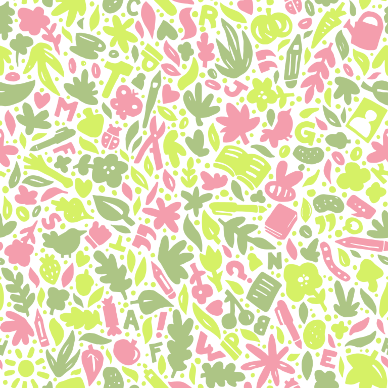
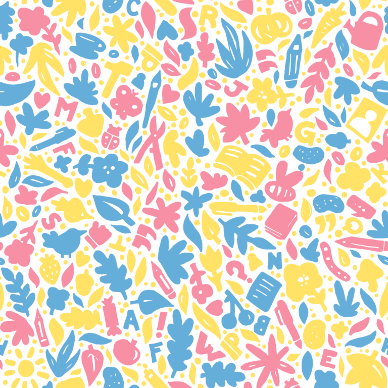
feat: summer theme is now available

diff --git a/app/Domains/Shared/Resources/css/app.css b/app/Domains/Shared/Resources/css/app.css
@@ -120,19 +120,19 @@ html {
 }
 
 :root[data-season=summer] {
-  --color-bg: 238 244 217;
-  --color-primary: 118 160 51;
-  --color-secondary: 10 94 1;
-  --color-accent: 244 100 124;
-  --color-tertiary: 173 99 115;
-  --home-bg-image: url('/images/themes/spring/background.png');
-  --profile-bg-image-small: url('/images/themes/spring/profile-bg-640.jpg');
-  --profile-bg-image-big: url('/images/themes/spring/profile-bg-1280.jpg');
-  --theme-ribbon: url('/images/themes/spring/top-ribbon.png');
-  --frame-corner-tl:url('/images/themes/spring/design/frame-corner-tl.png');
-  --frame-corner-tr:url('/images/themes/spring/design/frame-corner-tr.png');
-  --frame-corner-bl:url('/images/themes/spring/design/frame-corner-bl.png');
-  --frame-corner-br:url('/images/themes/spring/design/frame-corner-br.png');
+  --color-bg: 255 251 236;
+  --color-primary: 242 68 105;
+  --color-secondary: 148 12 61;
+  --color-accent: 0 120 193;
+  --color-tertiary: 139 160 12;
+  --home-bg-image: url('/images/themes/summer/background.png');
+  --profile-bg-image-small: url('/images/themes/summer/profile-bg-640.jpg');
+  --profile-bg-image-big: url('/images/themes/summer/profile-bg-1280.jpg');
+  --theme-ribbon: url('/images/themes/summer/top-ribbon.png');
+  --frame-corner-tl:url('/images/themes/summer/design/frame-corner-tl.png');
+  --frame-corner-tr:url('/images/themes/summer/design/frame-corner-tr.png');
+  --frame-corner-bl:url('/images/themes/summer/design/frame-corner-bl.png');
+  --frame-corner-br:url('/images/themes/summer/design/frame-corner-br.png');
 }
 
 /* Dark appearance: shared defaults (overridden per season below) */
@@ -186,6 +186,18 @@ html {
   --color-tertiary: 120 72 88;
   --color-read-bg: 14 20 15;
   --color-read-fg: 200 210 192;
+}
+
+/* Summer dark */
+:root[data-season=summer][data-appearance=dark] {
+  --color-bg: 18 12 10;
+  --color-fg: 225 215 205;
+  --color-primary: 190 55 82;
+  --color-secondary: 42 14 28;
+  --color-accent: 30 95 150;
+  --color-tertiary: 97 112 18;
+  --color-read-bg: 26 18 14;
+  --color-read-fg: 225 215 205;
 }
 
 /* Font selection based on user preference */
